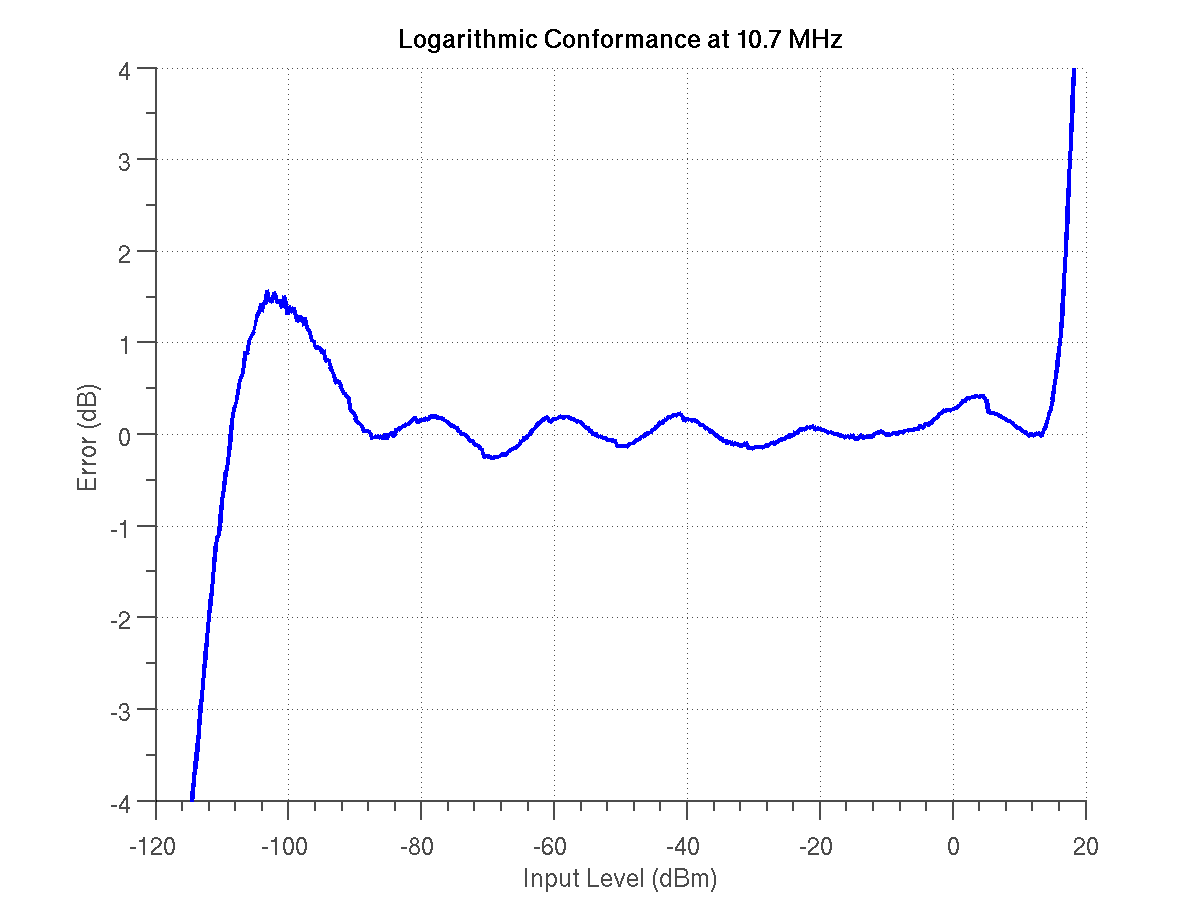
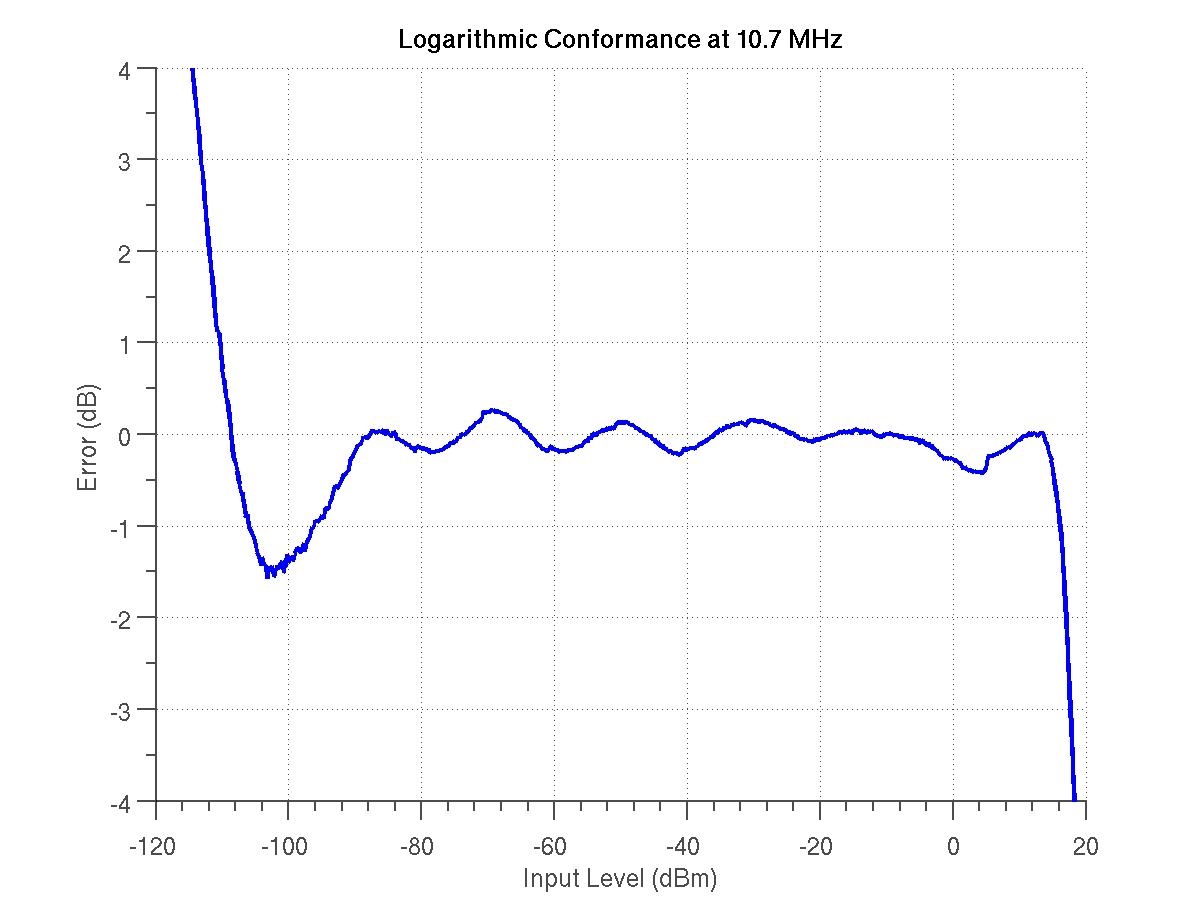
Updated MATLAB plot scripts to reflect new directory structure. Fixed difference equation in Log Conformance graph to match graphs in AD8307 datasheets

diff --git a/results/mk_plots_log_conformance.m b/results/mk_plots_log_conformance.m
@@ -1,6 +1,6 @@
 % Generate Log Response Plot from CSV
 
-dat = csvread('../source/log_response.csv');
+dat = csvread('./log_response.csv');
 x = dat(1,:); y1 = dat(2,:);
 
 w = double(x>-70 & x<-10);
@@ -12,9 +12,9 @@ b = double(linfit.Coefficients(1,1));
 
 y2 = m*x + b;   % Linear Approximation.
 
-db_err = (y2-y1)/m; % 10.7 
+db_err = (y1-y2)/m; % 10.7 
 
-% close all
+close all
 
 hFigure = figure('Units', 'pixels'); hold on; grid on;
 hAxes   = gca;
@@ -48,34 +48,17 @@ set(hAxes, ...
   'YTick'       , -4:1:4, ...
   'LineWidth'   , 1         );
 
-saveas(hFigure, '../final/log_conformance_center.png');
+saveas(hFigure, '../gfx/log_conformance_center.png');
 % set(gcf,'PaperUnits','inches','PaperPosition',[0 0 4 3])
 % print -djpeg '../final/log_conformance_center.png' -r100
 
-img = imread('../final/log_conformance_center.png');
+img = imread('../gfx/log_conformance_center.png');
 
 img_rs = imresize(img, [600 800]);
 
-imwrite(img_rs, '../final/log_conformance_center_800_600.png', ...
+imwrite(img_rs, '../gfx/log_conformance_center_800_600.png', ...
     'XResolution', 800, ...
     'YResolution', 600 ...
 );
 
-
-%% Plot previous data from when filter was installed wrong
-dat = load('../../analysis/meas_20140402.txt');
-y1 = dat(2,:); % Measured output Voltage at 10.7 MHz
-x  = -120:.5:16;
-
-w = double(x>-70 & x<-10);
-
-linfit = LinearModel.fit(x, y1, 'linear','Weights', w);
-
-m = double(linfit.Coefficients(2,1));
-b = double(linfit.Coefficients(1,1));
-
-y2 = m*x + b;   % Linear Approximation.
-
-db_err = (y2-y1)/m; % 10.7 
-
-plot(x,db_err, 'g', 'LineWidth', 2.0)
+return
